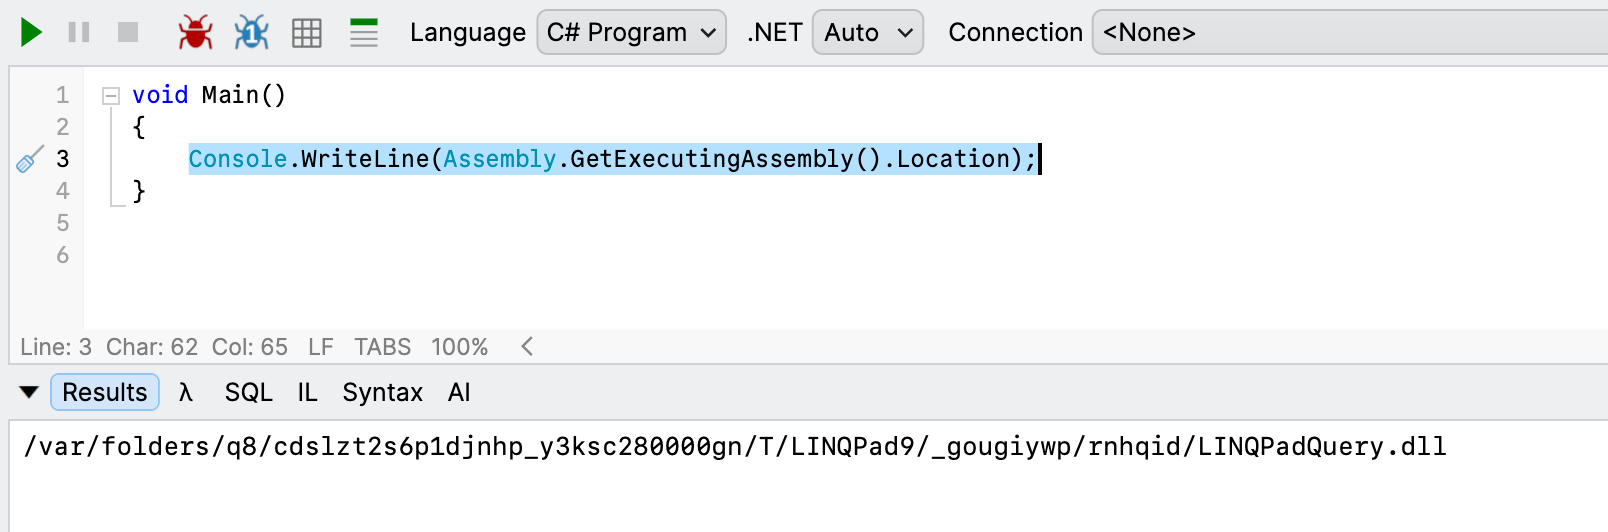
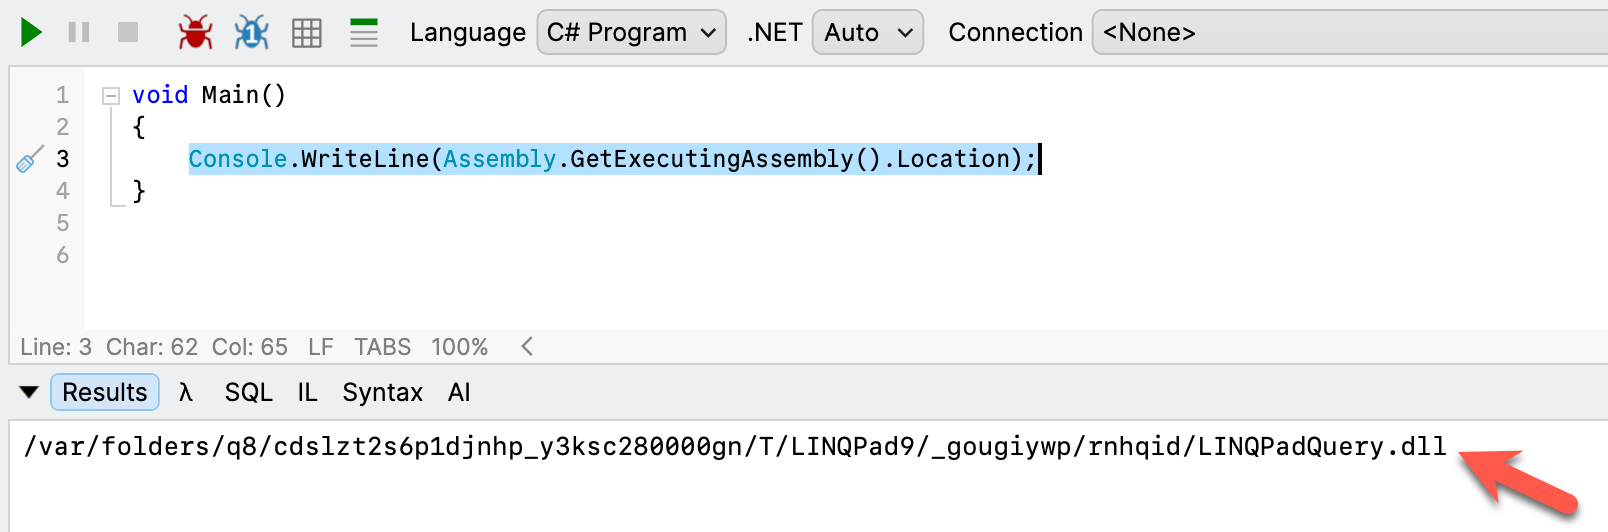
Minor edit

Changed region(s): [[0.9017, 0.8421, 0.995, 0.9925]]

diff --git a/_posts/2026-08-16-net-11-preview-overriding-assembly-location.md b/_posts/2026-08-16-net-11-preview-overriding-assembly-location.md
@@ -109,7 +109,7 @@ AssemblyLoadContext.SetAssemblyLocationOverride((assembly, defaultLocation) =>
 });
 ```
 
-Here we are trying to set the location again.
+Here we are trying to set the location **again**.
 
 If we run this code, we get the following result:
 
